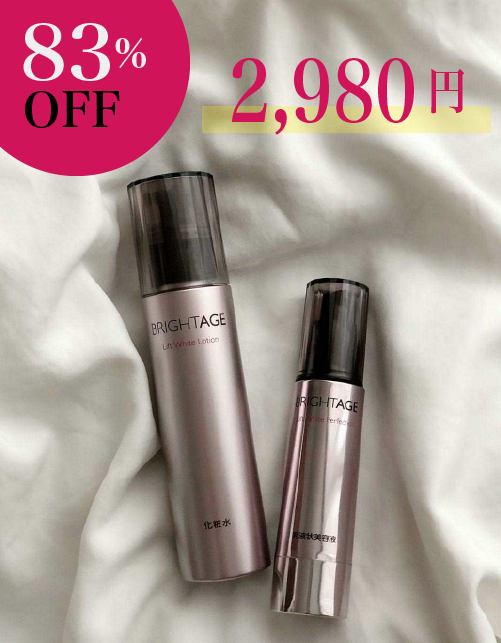
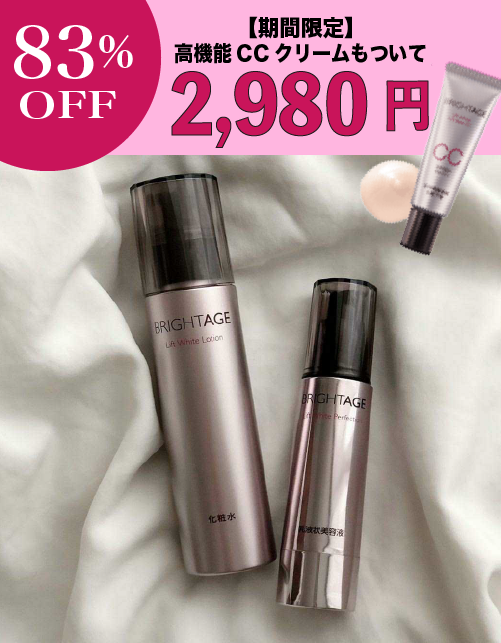
修正指示の文言修正、画像一部変更

diff --git a/beauty-style.html b/beauty-style.html
@@ -106,10 +106,10 @@
                     <p><img class="alignnone wp-image-6986 aligncenter" src="./files/gif_5.gif" alt=""
                         data-recalc-dims="1"></p>
                     <br>
-                    <p>乳液と美容液が一つになった美容液は2プッシュして肌に馴染ませるだけ！</p>
+                    <p>乳液と美容液が一つになったこの乳液状美容液は2プッシュして肌に馴染ませるだけ！</p>
                     <br>
 
-                    <p><span style="color: #ff00ff;"><strong>うるうる、モチモチ肌！</strong></span></p>
+                    <p><span style="color: #ff00ff;"><strong>うるうる、モチモチ！</strong></span></p>
                     <p><img class="size-full wp-image-6029 aligncenter" src="./files/見出し2.png" alt=""
                         data-recalc-dims="1"></p>
                     <p><span style="color: #000000;"><strong>友人にもお勧めしてみたところ、同じこのコスメが手放せなくなってしまったとのこと！</strong></span>
@@ -119,7 +119,7 @@
                     <p><img class="size-full wp-image-6029 aligncenter" src="./files/p_2.png" alt=""
                         data-recalc-dims="1"></p>
                     <p><a href="https://brightage.jp/stc/campaign/lp/am/pc/0013/default.aspx?prid=bainsta"
-                        target="_blank"><img class="aligncenter size-full wp-image-9328" src="./files/link_2.png" alt=""
+                        target="_blank"><img class="aligncenter size-full wp-image-9328" src="./files/cta-1.gif" alt=""
                           data-recalc-dims="1"></a></p>
                     <br>
                     <br>
@@ -158,7 +158,7 @@
                     <p><img class="aligncenter size-full wp-image-9328" src="./files/p_5.png" alt=""
                         data-recalc-dims="1"></p>
                     <p>
-                      ブライトエイジはロキソニンやマキロン、ルルなどのお薬を開発した<span
+                      ブライトエイジはロキソニンSやマキロン、ルルなどのお薬を開発した<span
                         style="color: #ff0000;"><strong>第一三共ヘルスケアが、医薬品開発の発想から誕生させたエイジングケアコスメ</strong></span>なんです！</p>
                     <p>モデルの「小泉里子さん」も、やっぱり製薬会社が作ったコスメという点に魅かれたんだそう！</p>
                     <br>
@@ -197,7 +197,7 @@
                         data-recalc-dims="1"></p>
                     <br>
                     <p>
-                      もちろん国内で生産されているし、やっぱり製薬会社開発のコスメって安心ですよね♪
+                      もちろん国内で生産されているし、やっぱり製薬会社開発のコスメって、なにより信頼感に繋がりますよね♪
                     </p>
                     <p><img class="aligncenter size-full wp-image-9328" src="./files/p_7.png" alt=""
                         data-recalc-dims="1"></p>
@@ -231,7 +231,7 @@
                     <p>
                     <p>
                     <p><strong>
-                        <span style="color: #ee00ff;"><strong>こんなぷるぷる美肌になれるなんて思ってもいませんでした・・・！
+                        <span style="color: #ee00ff;"><strong>このぷるぷる感はやみつきです・・・！
                           </strong></strong></span></p>
 
                     </p>
@@ -241,10 +241,10 @@
                     </p>
                     <p>普通だったら化粧水、美容液、乳液、クリーム･･･と一式揃えたら軽く1万2万と飛んでいってしまいますよね。</p>
                     <p>
-                      でもブライトエイジなら化粧品と乳液上美容液のセットで
+                      でもブライトエイジなら化粧品と乳液状美容液のセットで
                     </p>
                     <p>
-                      <span class="ymarker"><strong>今ならなんとで2980円お得にお試しできちゃうそうなんです・・・！！！！</strong></span>
+                      <span class="ymarker"><strong>期間限定で2980円お得にお試しできちゃうそうなんです・・・！！！！</strong></span>
                     </p>
                     <br>
                     <!-- クロージング＝＝＝＝＝＝＝＝＝＝＝＝＝＝＝＝＝＝＝＝＝＝＝＝＝＝＝＝＝＝＝＝＝＝＝＝＝＝＝＝＝＝＝＝＝＝＝＝＝＝＝＝＝＝＝＝＝＝＝＝＝＝＝＝＝＝＝＝＝＝＝＝＝＝＝ -->
@@ -252,20 +252,28 @@
                     <p><img class="aligncenter size-full wp-image-9328" src="./files/見出し7.png" alt=""
                         data-recalc-dims="1"></p>
 
+                    <p><span class="ymarker">
+                        今お試しセットを購入すると,
+                        美容有効成分トラネキサム酸配合の<span style="color: #ff0000;"><strong>高機能のCCクリームもついた３点セットで2980円！</strong>
+                        </span></span>
+                    </p>
+
                     <p><img class="aligncenter size-full wp-image-9328" src="./files/p_9.png" alt=""
                         data-recalc-dims="1"></p>
+
+
                     <p>
-                      ロキソニンやルルを開発した製薬会社が、研究に研究を重ね、こだわり抜いて完成させたエイジングケアコスメ。
+                      ロキソニンSやルルを開発した製薬会社が、研究に研究を重ね、こだわり抜いて完成させたエイジングケアコスメ。
                     </p>
                     <p>
-                      実はブライトエイジの値段は化粧水と乳液状美容液のセットで13000円します。
+                      実は、CCクリームと本品セット（化粧水・乳液状美容液）で総額は<span style="color: #000000;"><strong>17,500円</strong>します。
                     </p>
                     <p><span class="ymarker"><strong>しかし！</strong></span></p>
 
                     <p>
-                      まず、使っていただきたい！もっとたくさんの人に効果を実感してほしい！ということで
+                      まず、使っていただきたい！もっとたくさんの人に実感してほしい！ということで
 
-                    <p><span class="ymarker"><strong>今だけ！！！！</strong></span></p>
+                    <p><span class="ymarker"><strong>期間限定！！！！</strong></span></p>
                     </p>
                     <p><strong>
                         <span style="color: #ff0000;"><strong>定期コースの初回限定で、なんと83％オフの2980円でお試し出来ちゃうんです！
@@ -313,25 +321,29 @@
 
 
                     <p><a href="https://brightage.jp/stc/campaign/lp/am/pc/0013/default.aspx?prid=bainsta"
-                        target="_blank"><img class="aligncenter size-full wp-image-9328" src="./files/link_4.png" alt=""
+                        target="_blank"><img class="aligncenter size-full wp-image-9328" src="./files/cta-2.gif" alt=""
                           data-recalc-dims="1"></a></p>
 
 
 
                     <p><img class="aligncenter size-full wp-image-9328" src="./files/見出し9.png" alt=""
                         data-recalc-dims="1"></p>
-                    <p>
-                      今お試しセットを購入すると,
-                      美容有効成分トラネキサム酸配合の高機能のCCクリームもついた３点セットで2980円！
-                    </p>
+
 
                     <p><img class="aligncenter size-full wp-image-9328" src="./files/p_13.png" alt=""
                         data-recalc-dims="1"></p>
+                    <p><img class="aligncenter size-full wp-image-9328" src="./files/gif_9.gif" alt=""
+                        data-recalc-dims="1"></p>
+
                     <p>
                       このCCクリーム、SPF50＋ PA＋＋＋＋で紫外線対策もバッチリ！
                     </p>
-                    <p>スッと塗るだけで、シミなどもカバーし、自然な美肌にしてくれるんです！！</p>
+                    <p>スッと塗るだけで、シミなどもカバーし、自然な美肌にしてくれるんです！！※<br>
+                      ※メーキャップに効果による</p>
                     <br>
+                    <p><img class="aligncenter size-full wp-image-9328" src="./files/p_15.png" alt=""
+                        data-recalc-dims="1"></p>
+
                     <p><span class="ymarker"><strong>少しでも試してみたい・・・<br>
                           興味がある・・<br>
                           そろそろエイジングケアを考えないと・・・<br></strong></span></p>
@@ -349,7 +361,7 @@
                     </p>
 
                     <p><a href="https://brightage.jp/stc/campaign/lp/am/pc/0013/default.aspx?prid=bainsta"
-                        target="_blank"><img class="aligncenter size-full wp-image-9328" src="./files/link_3.png" alt=""
+                        target="_blank"><img class="aligncenter size-full wp-image-9328" src="./files/cta-3.gif" alt=""
                           data-recalc-dims="1"></a></p>
 
 
